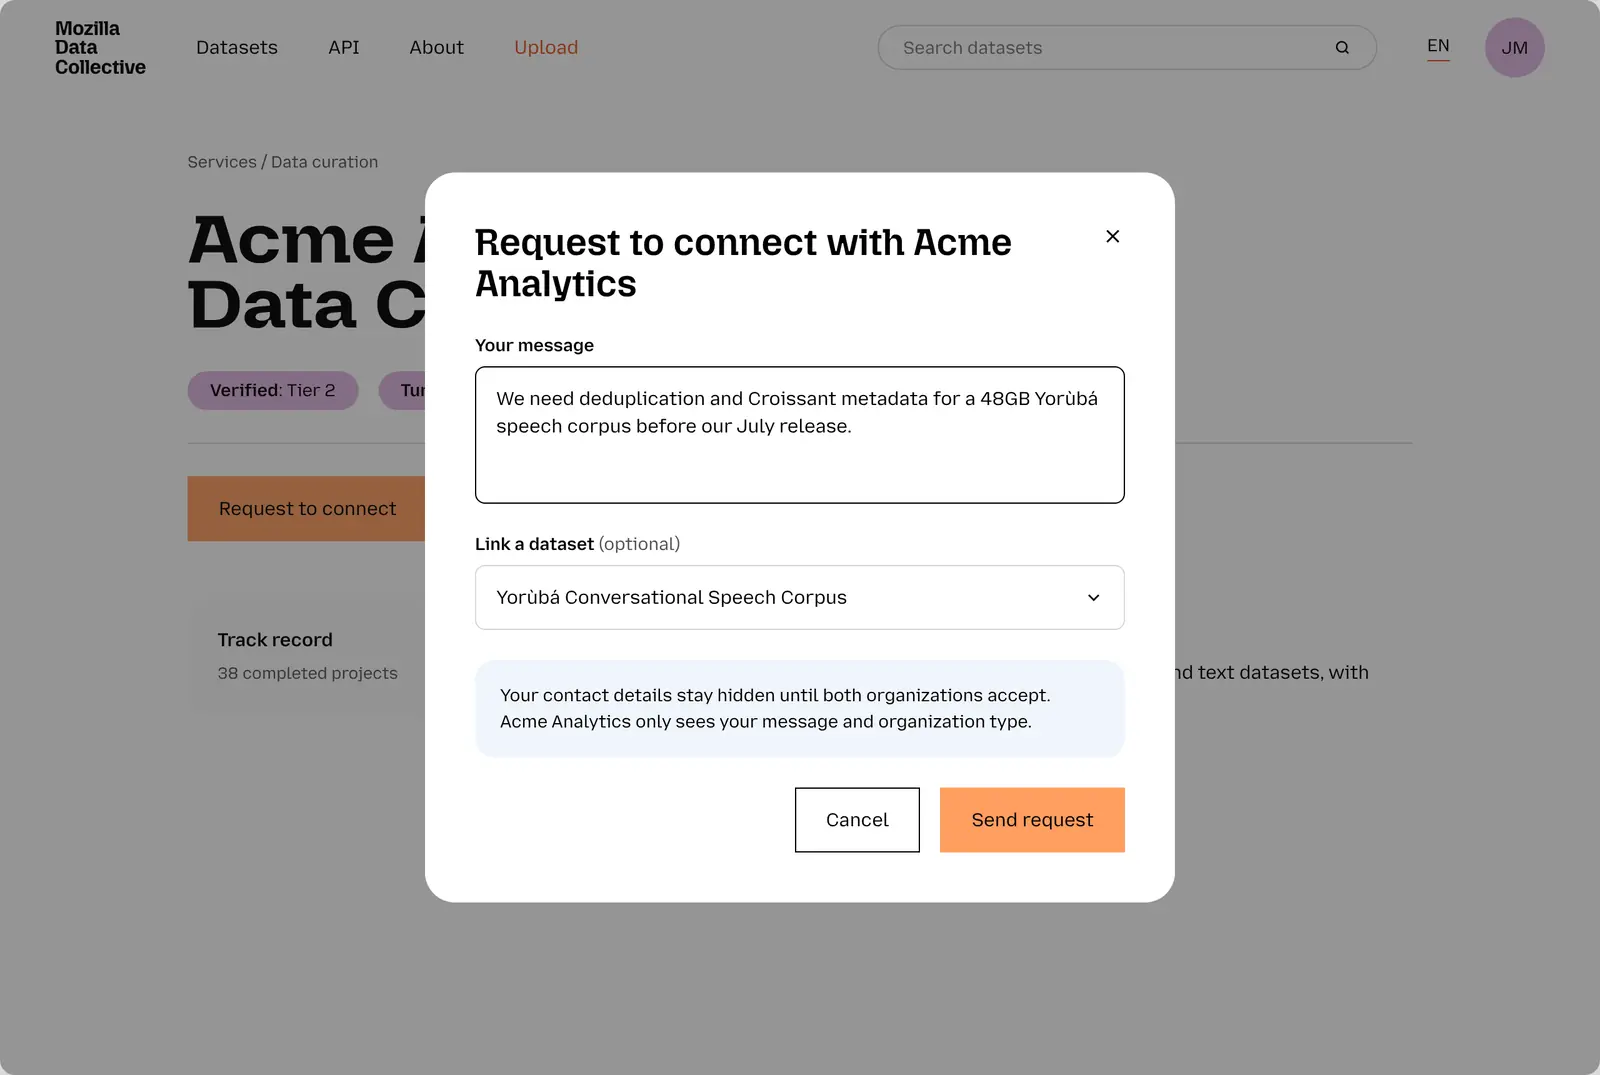
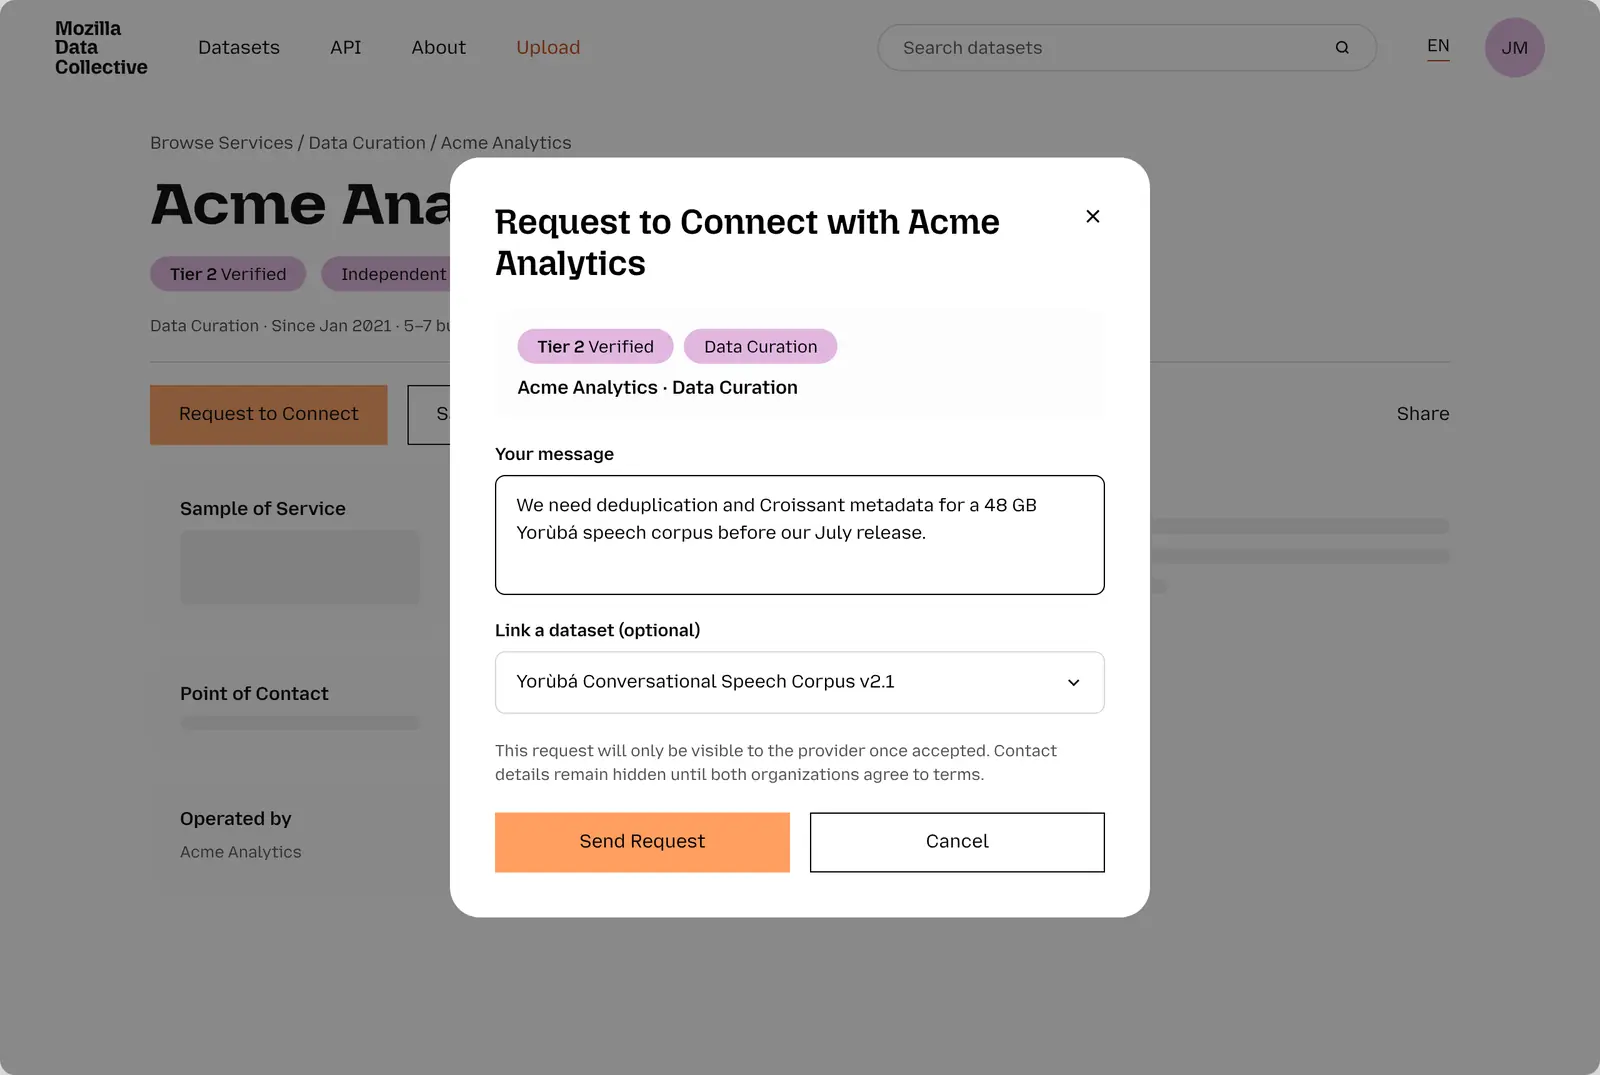
Rebuild MDC final designs from the mid-fi wireframes; fix button contrast
Claude-Session: https://claude.ai/code/session_013nNpA9FBnVwprHwe8g4KGN

diff --git a/mdc.html b/mdc.html
@@ -253,19 +253,19 @@ body::before { content: ""; position: fixed; inset: 0; z-index: -1; pointer-even
     <section class="slider" aria-roledescription="carousel" aria-label="Final designs">
       <div class="slides" id="slides" tabindex="0" aria-label="Final designs, scroll or use the buttons below">
         <figure class="slide" id="final-1" aria-roledescription="slide" aria-label="1 of 3: Access controls">
-          <a class="frame" href="images/mdc-final-access.webp" aria-label="Open this design full size"><img src="images/mdc-final-access.webp" srcset="images/mdc-final-access-sm.webp 800w, images/mdc-final-access.webp 1600w" sizes="(max-width: 1088px) 100vw, 1040px" width="1600" height="1075" decoding="async" loading="eager" fetchpriority="high" alt="The Access controls page for Lagos Language Commons: identity verified and screening clear, 18 of 27 requests approved automatically in the last 30 days, 4 waiting for review, and two approval rules, one enforcing and one in report-only mode, each showing how many recent requests it would have approved."></a>
+          <a class="frame" href="images/mdc-final-access.webp" aria-label="Open this design full size"><img src="images/mdc-final-access.webp" srcset="images/mdc-final-access-sm.webp 800w, images/mdc-final-access.webp 1600w" sizes="(max-width: 1088px) 100vw, 1040px" width="1600" height="1075" decoding="async" loading="eager" fetchpriority="high" alt="The Verification and access controls page for Lagos Language Commons: identity verified via Companies House, screening clear, two auto-approve rules that each show how many of the last 15 requests they would have approved, Add rule and Manage allowlist or blocklist buttons, and a note that the rules apply to all datasets."></a>
           <figcaption><strong><span>1 / 3</span>Access controls</strong>
             <dl class="pi"><div><dt>Problem</dt><dd>Owners wanted to approve every download, which meant a review queue nobody could keep up with.</dd></div><div><dt>Impact</dt><dd>Rules handle routine requests, and each rule shows what it would have done before it goes live. Request to Access launched in May 2026.</dd></div></dl>
           </figcaption>
         </figure>
         <figure class="slide" id="final-2" aria-roledescription="slide" aria-label="2 of 3: Trust and quality signals">
-          <a class="frame" href="images/mdc-final-quality.webp" aria-label="Open this design full size"><img src="images/mdc-final-quality.webp" srcset="images/mdc-final-quality-sm.webp 800w, images/mdc-final-quality.webp 1600w" sizes="(max-width: 1088px) 100vw, 1040px" width="1600" height="1075" decoding="async" loading="lazy" alt="The dataset page for the Yorùbá Conversational Speech Corpus: license and steward tags, task, release date, format and size, Request access and Connect API buttons, and a Trust and quality section with a documentation score of 8.7 out of 10, Croissant and FAIR standards, and two third-party verifications."></a>
+          <a class="frame" href="images/mdc-final-quality.webp" aria-label="Open this design full size"><img src="images/mdc-final-quality.webp" srcset="images/mdc-final-quality-sm.webp 800w, images/mdc-final-quality.webp 1600w" sizes="(max-width: 1088px) 100vw, 1040px" width="1600" height="1075" decoding="async" loading="lazy" alt="The dataset page for the Yorùbá Conversational Speech Corpus v2.1: task, release date, format, size and licence tags, a Download button, and a Trust and quality signals panel with documentation 8.7 out of 10, Croissant and FAIR standards, CC BY-SA 4.0 licence, gated access, and two third-party verifications, with the standards evidence expanded."></a>
           <figcaption><strong><span>2 / 3</span>Trust and quality signals</strong>
-            <dl class="pi"><div><dt>Problem</dt><dd>Buyers couldn't tell whether a dataset was documented, properly licensed, or independently checked without downloading it first.</dd></div><div><dt>Impact</dt><dd>Documentation, standards, and third-party verification, each with its evidence, so buyers can judge a dataset before they request it.</dd></div></dl>
+            <dl class="pi"><div><dt>Problem</dt><dd>Buyers couldn't tell whether a dataset was documented, properly licensed, or independently checked without downloading it first.</dd></div><div><dt>Impact</dt><dd>Five signals, each with its evidence one click away, so buyers can judge a dataset before they request it.</dd></div></dl>
           </figcaption>
         </figure>
         <figure class="slide" id="final-3" aria-roledescription="slide" aria-label="3 of 3: Request to connect">
-          <a class="frame" href="images/mdc-final-connect.webp" aria-label="Open this design full size"><img src="images/mdc-final-connect.webp" srcset="images/mdc-final-connect-sm.webp 800w, images/mdc-final-connect.webp 1600w" sizes="(max-width: 1088px) 100vw, 1040px" width="1600" height="1075" decoding="async" loading="lazy" alt="A Request to connect dialog over the Acme Analytics Data Curation service page, with a message, a linked dataset, a note that contact details stay hidden until both organizations accept, and Cancel and Send request buttons."></a>
+          <a class="frame" href="images/mdc-final-connect.webp" aria-label="Open this design full size"><img src="images/mdc-final-connect.webp" srcset="images/mdc-final-connect-sm.webp 800w, images/mdc-final-connect.webp 1600w" sizes="(max-width: 1088px) 100vw, 1040px" width="1600" height="1075" decoding="async" loading="lazy" alt="A Request to Connect dialog over the Acme Analytics Data Curation service page: the provider's tier and category, a message, a linked dataset, a note that contact details stay hidden until both organizations agree, and Send Request and Cancel buttons."></a>
           <figcaption><strong><span>3 / 3</span>Request to connect</strong>
             <dl class="pi"><div><dt>Problem</dt><dd>Organizations needed curation and annotation help, but neither side wanted to share contact details with a stranger.</dd></div><div><dt>Impact</dt><dd>Buyers send a request, and contact details stay hidden until both sides agree. It gives the platform a services marketplace staff can review and run.</dd></div></dl>
           </figcaption>

diff --git a/index.html b/index.html
@@ -235,7 +235,7 @@ body::before { content: ""; position: fixed; inset: 0; z-index: -1; pointer-even
           <p class="desc">Site architecture, access controls, quality signals, and a services marketplace for Mozilla's data platform. Pricing research across 200+ datasets, a survey, and a false door tested demand before anything was built.</p>
           <div class="outcome"><span class="label">Outcome</span><p>Request to Access launched in May 2026. The platform holds 600+ datasets from 190+ vetted organizations in 300+ languages.</p></div>
         </div>
-        <div class="frame"><img src="images/mdc-final-card.webp" width="800" height="500" decoding="async" alt="A Mozilla Data Collective dataset page with license and steward tags, a Request access button, and a Trust and quality section." loading="eager" fetchpriority="high"></div>
+        <div class="frame"><img src="images/mdc-final-card.webp" width="800" height="500" decoding="async" alt="A Mozilla Data Collective dataset page with dataset tags, a Download button, and a Trust and quality signals panel." loading="eager" fetchpriority="high"></div>
       </a>
 
       <a class="entry flip" href="common-voice.html">
@@ -296,7 +296,7 @@ body::before { content: ""; position: fixed; inset: 0; z-index: -1; pointer-even
       <h2 id="built-h">This site is built light, on purpose.</h2>
       <p class="intro">I directed it and Claude Code wrote it. Plain HTML and CSS with no frameworks or trackers, self-hosted fonts, and WebP images with fixed dimensions. Structured data and an <a href="llms.txt">llms.txt</a> help search engines and AI tools read it. Measured with Lighthouse on November 2, 2026.</p>
       <dl class="specs">
-        <div><dt>177 KB</dt><dd>Home page weight, fonts and images included</dd></div>
+        <div><dt>180 KB</dt><dd>Home page weight, fonts and images included</dd></div>
         <div><dt>9</dt><dd>Requests on the home page</dd></div>
         <div><dt>0.7 KB</dt><dd>JavaScript, for the copy-email button</dd></div>
         <div><dt>0</dt><dd>Frameworks, cookies, or trackers</dd></div>
